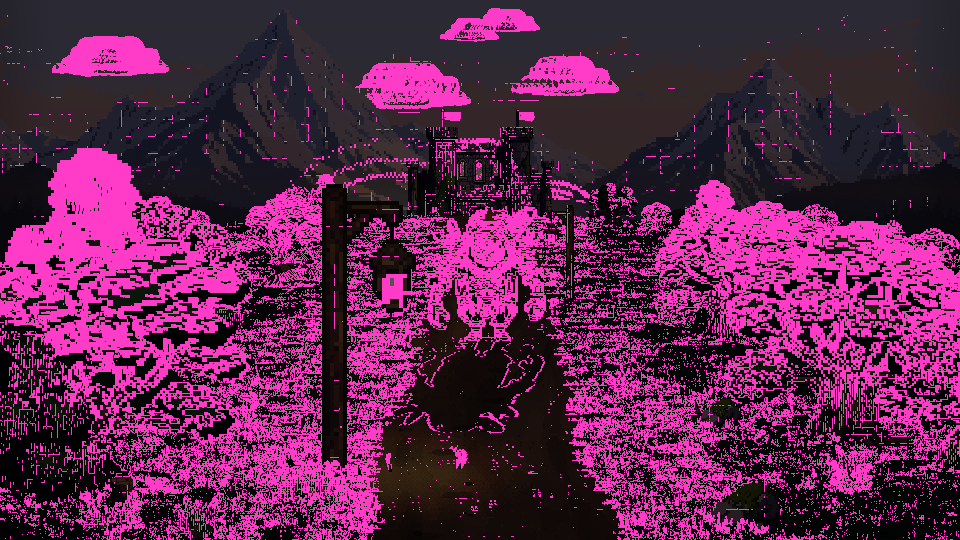
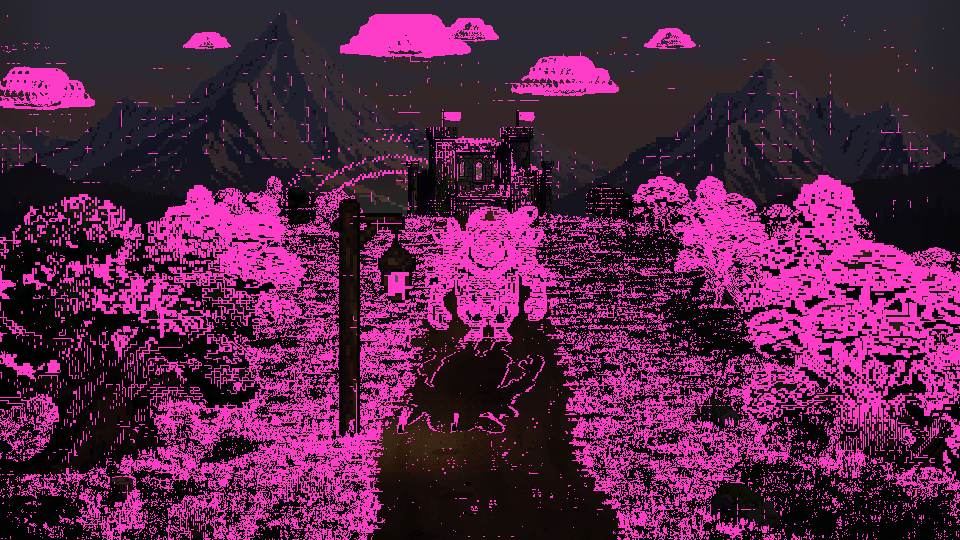
Ato 4: seis pinheiros de neve animados e trava de toda a vegetacao
Os seis pinheiros de neve mexem a ponta dos galhos carregados. As duas
arvores secas de gelo (arte nova) ficam so com o balanco: o pouco que o
modelo mexe num galho nu cai fora da silhueta, que precisa ficar
identica para sombra e oclusao (motivo em world_props.animStatic).

test_tree_anim agora cobre os seis biomas: toda vegetacao precisa de
pasta anim com quadro 0 identico ao PNG, mesma silhueta e movimento
pequeno, ou de um motivo em animStatic; 63 de 70 animados. Quadros da
batalha 1080p de cada ato em tools/preview_out/anim_cenario/<bioma>/jogo.

diff --git a/memory/worldroad_scene.md b/memory/worldroad_scene.md
@@ -292,6 +292,23 @@ animação mínima feita pelo PixelLab... só para dar um efeito mais detalhado"
   candidatas: gerar sem `reference_images`. Disco de copa dos campos 0,55/0,42 → 0,20/0,32 (manchas soltas).
   Poste novo rejeitado (viga de 7 px e lanterna enorme no 1080p). Animação refeita: só `fields_tree_0` e `_2`
   passaram o portão; `test_tree_anim` exige ao menos 2.
+- **Toda vegetação animada (20/Out/2026, frente anim-cenario; dono: "todas as árvores e todos os itens...
+  movimentação pequena, em camadas"):** `PropCut.animKinds` (tree/pine/deadtree/bush/rock/flowers/tuft/grass/
+  reeds/blooms/embers) substitui o portão `CREST.kinds`; o draw principal passa o quadro para qualquer kind com
+  pasta `anim/` (fase = `windPhase` do PropVariation, ou hash do z sem PV) e o `GroundClutter.draw` usa
+  `env.frames/env.frameOf` (pré-aquecido junto do clutter). Ferramenta única: `animate_image_pixminimax`
+  (8 quadros); o `animate_image` redesenha demais (20 a 40 % dos pixels nos pinheiros de neve). O delta vai de
+  um quadro gerado de REFERÊNCIA (o quadro 0 gerado não bate com a base) para os seguintes; `evaluate` busca a
+  melhor subsequência e reprova: movimento máximo fora de 1,2 a 7 % da área (brasas 30 %), passo > 8 %, mais de
+  um passo < 20 % do maior (quadro congelado) ou menos da metade dos passos ≥ 35 % (salto único). Depois do
+  portão, revisão visual (`diffsheet`, `candidate`, quadros recortados): rejeitados a olho `abyss_deadtree_2`
+  (clarão branco, refeito) e `dusk_tree_1` (o modelo mexia o tronco; `EXCLUDE` tira a caixa do tronco).
+  Prompt `ANIM_CALM=1` para a 2ª rodada. Resultado: 70 sprites, 63 animados; ficam só com o balanço, com o
+  motivo em `world_props.animStatic` (a trava `test_tree_anim` FALHA para vegetação sem pasta e sem motivo):
+  `fields_tree_4`, `highlands_pine_4`, `highlands_grass_0/1`, `marsh_deadtree_2`, `frost_deadtree_0/1` (galho nu: o pouco que o modelo mexe cai FORA da silhueta, e a silhueta precisa ficar idêntica para sombra/oclusão; o `rim_of` também exclui galho de 1 px). Base trocada por outra frente
+  = reinstalar (`install` reusa a sequência sobre o PNG novo) ou regerar se a arte mudou. 197 gerações (175 pixminimax + 22 animate_image).
+  Provas: `tools/preview_out/anim_cenario/<bioma>/` (sheet 1x/4x, GIF, diff, board, `jogo/` = quadros da
+  batalha 1080p recortados por `tools/anim_cenario_seq.py`). Textura total ~11,5 MB; draw calls iguais (431).
 
 **CASTELO SEMPRE NO CENTRO (18/Out/2026, decisão do dono, REVOGA as entradas abaixo sobre deslocar o castelo):** o dono reprovou o castelo deslocado para os lados da crista (commits c836e88d, 3fb78d46, d6406956, d63b5507: `CASTLE_APPROACH.side/pick/overlap`, fade de troca de lado): "o castelo é o foco de tudo" e o vai-e-vem "tá estranho". O código de deslocamento e fade foi APAGADO; `drawCastleOf` usa `cx = g.cx` sempre. A barra de vida/intenção do inimigo pode cobrir parte do castelo na batalha: aceito pelo dono. Não reintroduzir deslocamento, troca de lado nem fade do castelo. Trava: `test_world_props` (castelo com dx ≤ 1 px nos seis biomas e parado durante a cena).
 
